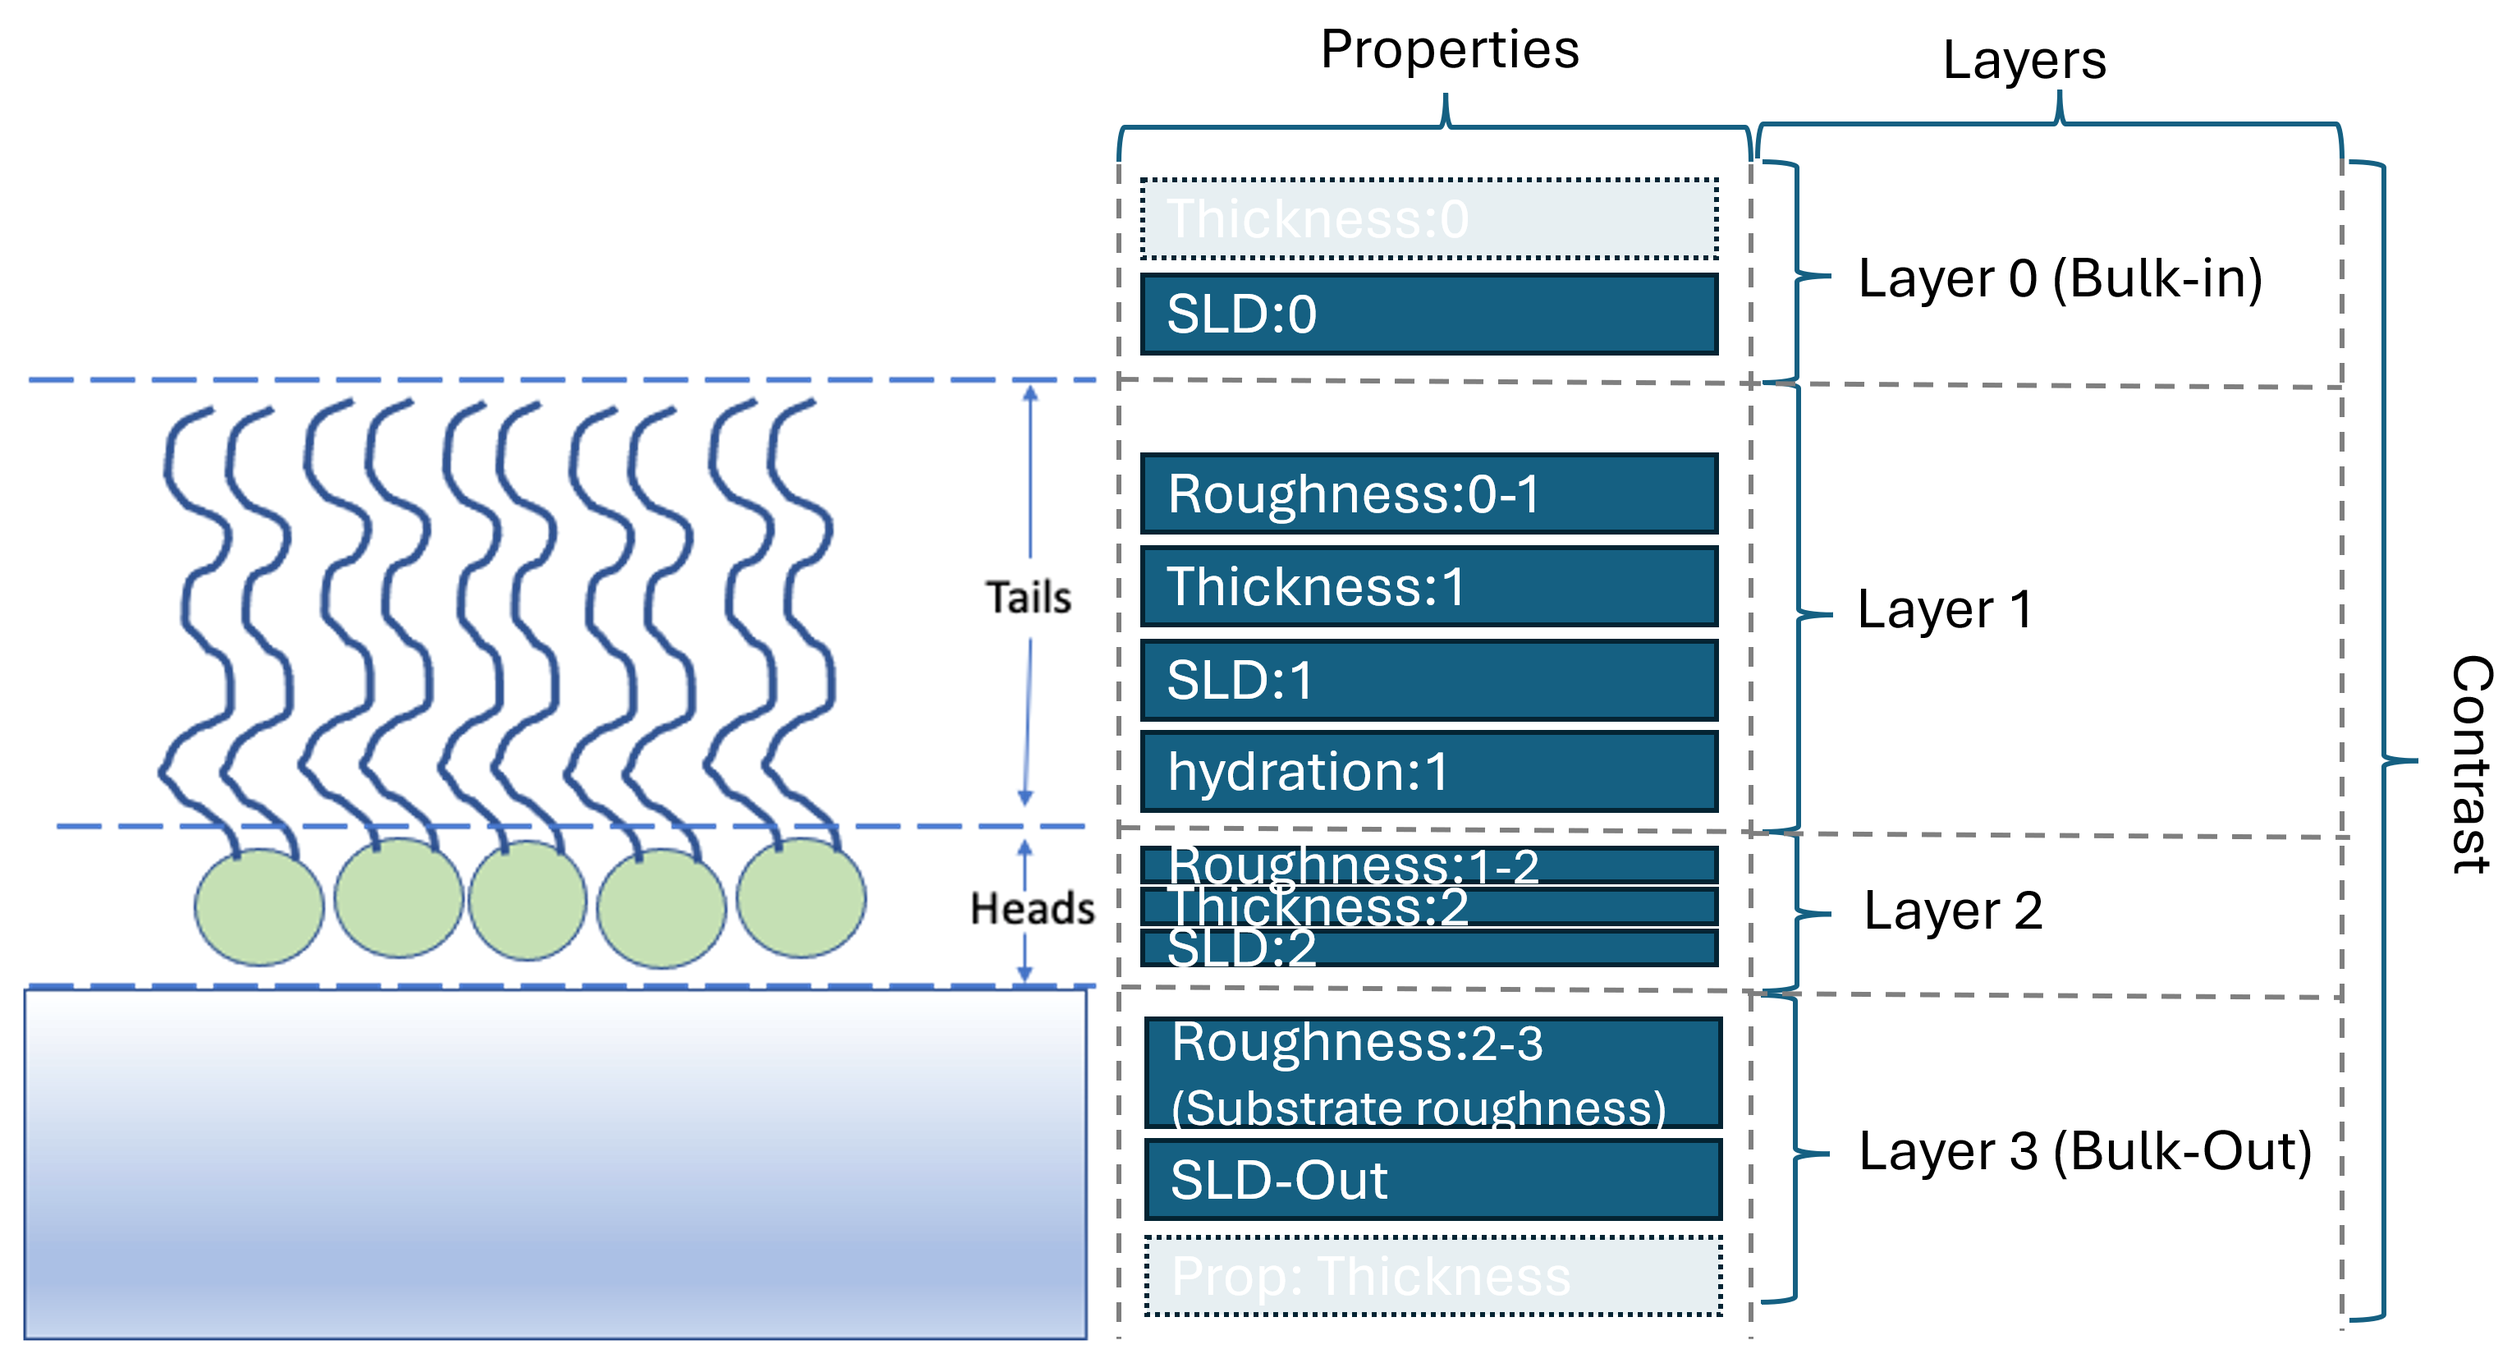
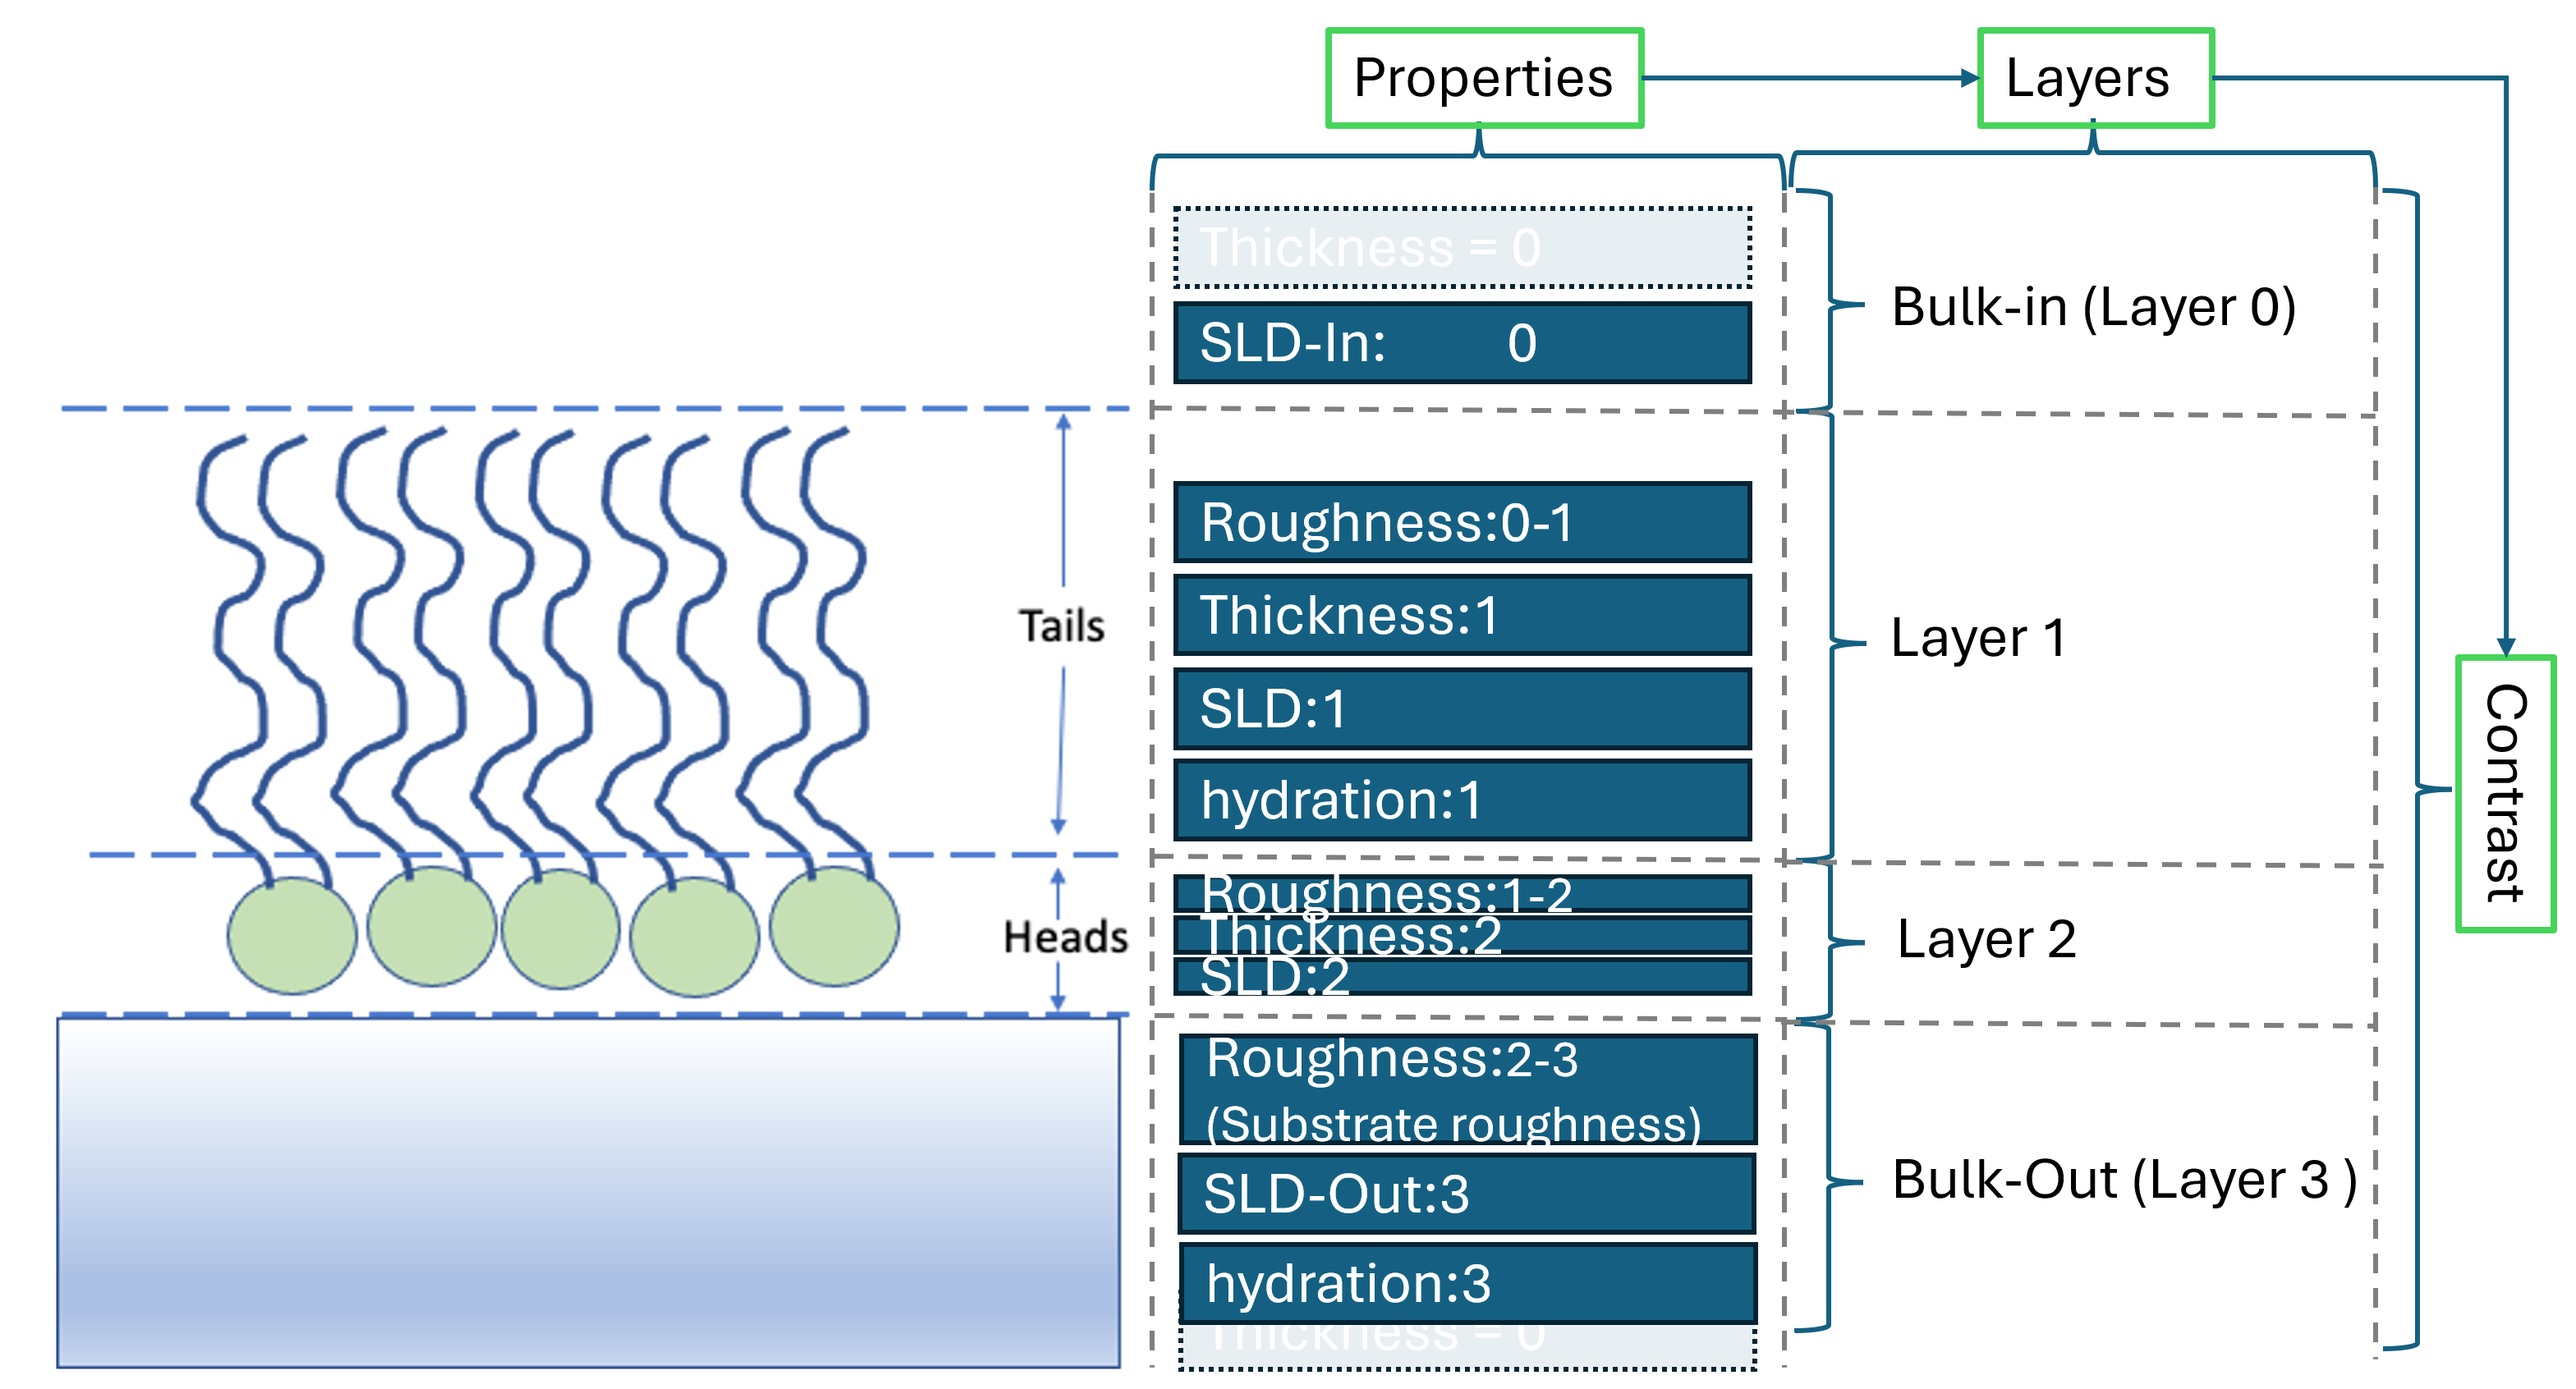
Re #50 better picture definition and couple of references to it

Changed region(s): [[0.0, 0.0, 0.9935, 1.0]]

diff --git a/source/conf.py b/source/conf.py
@@ -110,6 +110,9 @@ matlab_keep_package_prefix = False
 html_theme = 'pydata_sphinx_theme'
 bgcolor = 'white'
 
+# Add switch which numerates figures and allows numeric references to them
+numfig = True
+
 # Add any paths that contain custom static files (such as style sheets) here,
 # relative to this directory. They are copied after the builtin static files,
 # so a file named "default.css" will overwrite the builtin "default.css".

diff --git a/source/tutorial/introduction.rst b/source/tutorial/introduction.rst
@@ -86,14 +86,15 @@ heads which are adjacent (or embedded) in the bulk aqueous phase.
 
 In our example, the layers can be either deuterated or hydrogenated, and the bulk water can either be D2O or ACMW.
 
+.. _LipidMonolayerWithPar:
 .. figure:: ../images/tutorial/LipidMonolayerAndParameters.png
     
-   Lipid Monolayer alongside with slab model parameters used in reflectivity calculations. 
+   Lipid Monolayer alongside with slab model parameters used in reflectivity calculations. Air/substrate case. 
 
-We are going to analyze our monolayer data using a standard `slab model <https://www.reflectometry.org/learn/3_reflectometry_slab_models/the_slab_model.html>`_.
-In this model, we approximate our experimental model as a series of layers with a known thickness, roughness, SLD and hydration.
-The way that this is represented in the RAT model definition is by a list of **Parameter** objects which represent a given quantity (such as a thickness or SLD),
-and then a list of **Layer** objects which group together these parameters to describe each layer. Layers are then grouped together in a **Contrast** object which
+We are going to analyse our monolayer data using a standard `slab model <https://www.reflectometry.org/learn/3_reflectometry_slab_models/the_slab_model.html>`_.
+In this model, we approximate our experimental model as a series of layers with a known thickness, roughness and hydration which affects SLD.
+The way that this is represented in the RAT model definition is by a list of **Parameter** objects which represent a given quantity (such as a thickness or hydration or SLD directly),
+and then a list of **Layer** objects which group together these parameters to describe each layer. (See :numref:`LipidMonolayerWithPar` above) Layers are then grouped together in a **Contrast** object which
 describes the slab model and matches it up to the experimental data to which the model will be compared. In this project we have two contrasts representing
 two slab models (one for our deuterated experiment, one for our hydrogenated experiment).
 

diff --git a/source/tutorial/project.rst b/source/tutorial/project.rst
@@ -61,6 +61,7 @@ then for the ``"substrate/liquid"`` geometry the substrate roughness is placed a
 and the layer roughness values refer to the interface after the particular layer.
 But in the ``"air/substrate"`` case, the opposite is true, 
 and the substrate roughness is the last roughness in the stack, with the layer roughness referring to the interface before each layer.
+This is the case, represented on the :numref:`LipidMonolayerWithPar`.
 
 * **Model Type**: There are three ways of defining models in RAT:
 
